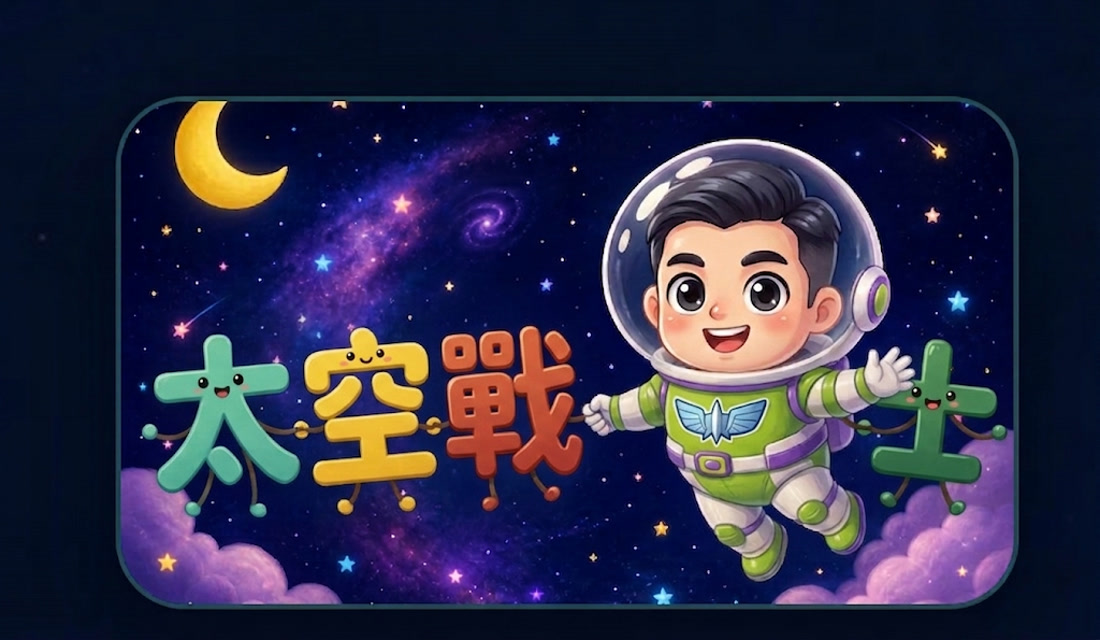
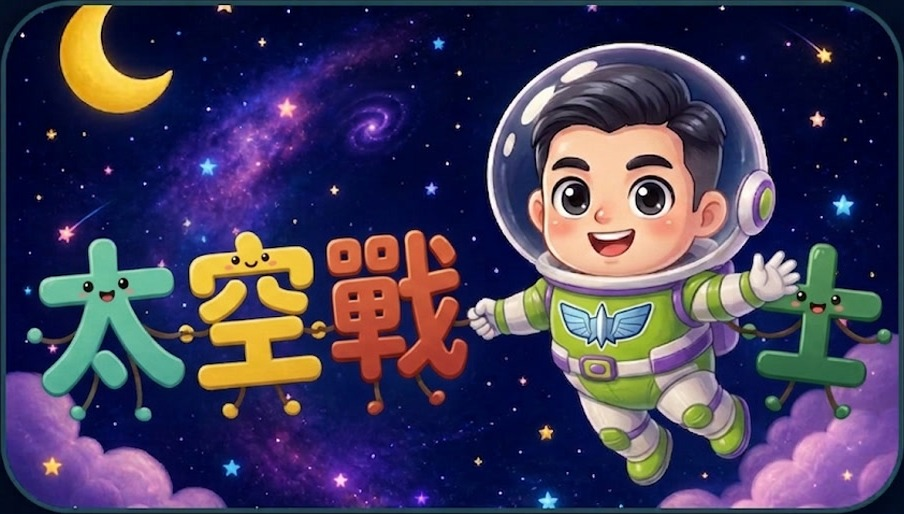
fix: 裁走 hero 原圖 letterbox，更新 aspect-ratio
原圖左右／上有黑邊令填滿 CSS 框後仍見空隙；
裁至 904×514 並 cache-bust。

diff --git a/index.html b/index.html
@@ -10,7 +10,7 @@
   <link rel="preconnect" href="https://fonts.googleapis.com" />
   <link rel="preconnect" href="https://fonts.gstatic.com" crossorigin />
   <link href="https://fonts.googleapis.com/css2?family=Fredoka:wght@500;600;700&family=Noto+Sans+TC:wght@500;700;900&display=swap" rel="stylesheet" />
-  <link rel="stylesheet" href="./css/styles.css?v=20260831m" />
+  <link rel="stylesheet" href="./css/styles.css?v=20260831n" />
   <link rel="stylesheet" href="./css/phonics.css?v=20260815d" />
   <link rel="stylesheet" href="./css/math.css?v=20260811j" />
 </head>
@@ -37,7 +37,7 @@
 
       <div class="hero-home">
         <div class="chinese-hero" aria-hidden="true">
-          <img src="./assets/chinese-hero.jpg" alt="" width="1100" height="638" decoding="async" fetchpriority="high" />
+          <img src="./assets/chinese-hero.jpg?v=20260831m" alt="" width="904" height="514" decoding="async" fetchpriority="high" />
         </div>
         <p class="hero-sub">太空戰士，出發認字、字母同數理！</p>
         <div class="btn-row">

diff --git a/css/styles.css b/css/styles.css
@@ -254,7 +254,7 @@ body::before {
 
 .chinese-hero {
   width: min(100%, 720px);
-  aspect-ratio: 1100 / 638;
+  aspect-ratio: 904 / 514;
   margin: 0;
   border-radius: 24px;
   overflow: hidden;
